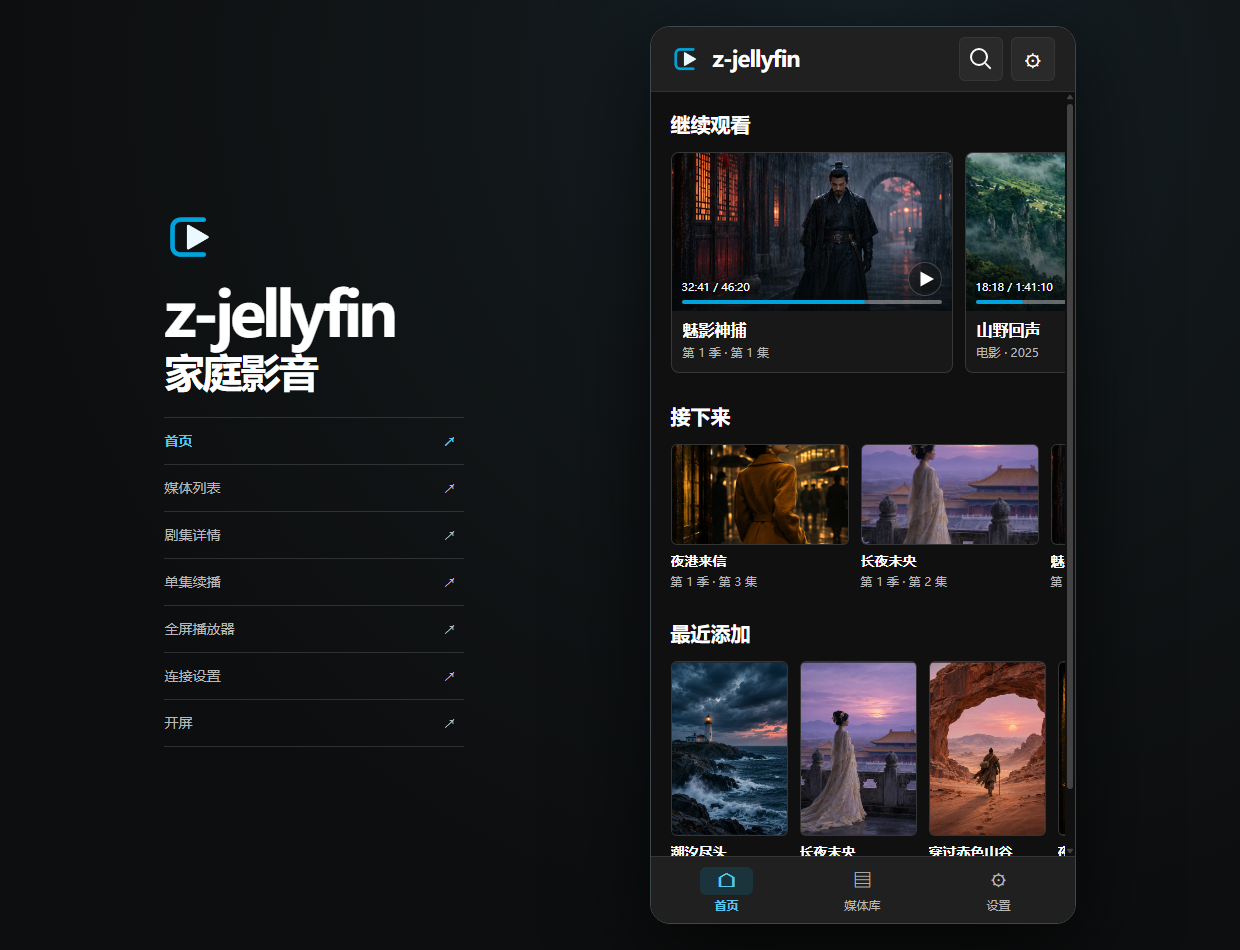
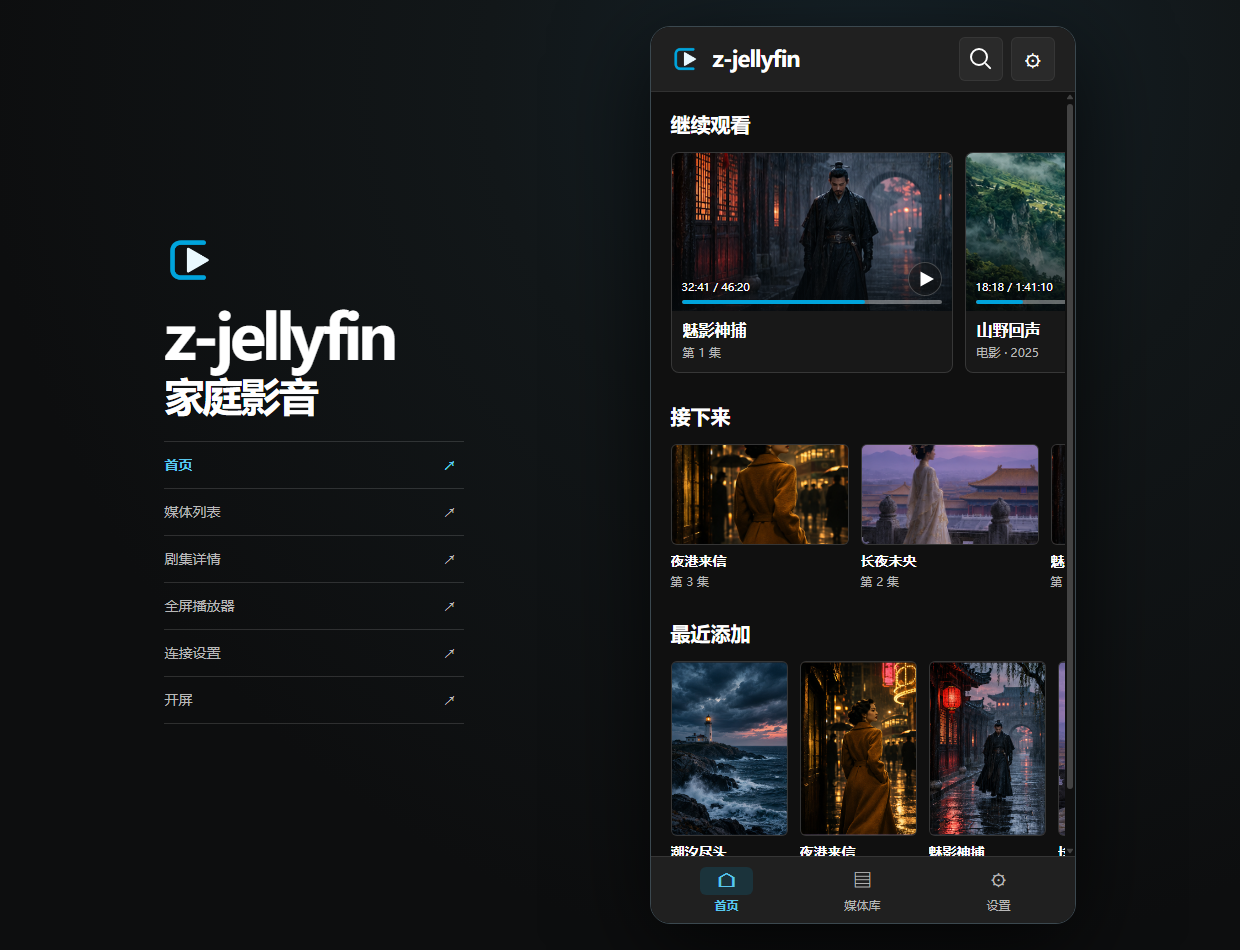
feat: 单集直接播放并简化首页季集号

diff --git a/docs/prototype/index.html b/docs/prototype/index.html
@@ -18,7 +18,6 @@
    <button class="jump" data-jump="home">首页 <span aria-hidden="true">↗</span></button>
    <button class="jump" data-jump="library">媒体列表 <span aria-hidden="true">↗</span></button>
    <button class="jump" data-jump="detail">剧集详情 <span aria-hidden="true">↗</span></button>
-   <button class="jump" data-jump="detail" data-item="ep1">单集续播 <span aria-hidden="true">↗</span></button>
    <button class="jump" data-jump="player">全屏播放器 <span aria-hidden="true">↗</span></button>
    <button class="jump" data-jump="settings">连接设置 <span aria-hidden="true">↗</span></button>
    <button class="jump" data-jump="splash">开屏 <span aria-hidden="true">↗</span></button>
@@ -65,7 +64,7 @@ const mediaLibraries=[
  {id:"series",name:"电视剧",items:["detective","neon","palace"]},
  {id:"favorites",name:"自建片库",items:["desert"]}
 ];
-const latest=["lighthouse","palace","desert","neon","forest","detective"];
+const latest=["lighthouse","n2","ep4","palace","desert","forest"];
 const next=["n3","p2","ep2"];
 const records={ep1:1961,forest:1098,lighthouse:314,n2:2500};
 // Jellyfin Web v10.11.11 playback settings use width and bits per second.
@@ -106,6 +105,7 @@ function adjacentEpisode(id,offset){
  return siblings[siblings.indexOf(id)+offset];
 }
 const isWatched=id=>catalog[id].length>0&&records[id]>=catalog[id].length;
+const resumePosition=id=>isWatched(id)?0:records[id]||0;
 const watchedBadge='<span class="watched"><span aria-hidden="true">✓</span>已看完</span>';
 const logo='<img src="logo.png" alt="" width="38" height="38" class="mark">';
 const ratio=id=>Math.min(100,Math.max(0,(records[id]||0)/(catalog[id].length||1)*100));
@@ -134,14 +134,16 @@ function section(title,markup){
 function card(id,mode="poster"){
  const i=catalog[id], resume=mode==="resume", episode=Boolean(i.parent);
  const landscape=resume||mode==="next-up";
+ const homeCard=landscape||mode==="recent";
  const name=episode?parentName(i):i.name;
- const detail=episode?epLabel(i)+(landscape?"":" · "+i.name):i.type+" · "+i.year;
+ const episodeNumber=homeCard&&i.season===1?"第 "+i.episode+" 集":epLabel(i);
+ const detail=episode?episodeNumber+(homeCard?"":" · "+i.name):i.type+" · "+i.year;
  const watchTime=resume?time(records[id])+" / "+time(i.length):"";
  const coverInfo=resume?'<span class="resumeShade" aria-hidden="true"></span>'+
  '<span class="watchTime">'+watchTime+'</span>'+progress(id)+
  '<svg class="quickPlayIcon" viewBox="0 0 34 34" aria-hidden="true"><path d="M12.5,9.5 L26,17 L12.5,24.5 Z"/></svg>':"";
  const action=resume?'data-play="'+id+'" data-position="'+records[id]+'" aria-label="'+
- esc("继续观看 "+name+"，"+detail+"，已观看 "+watchTime)+'"':'data-detail="'+id+'"';
+ esc("继续观看 "+name+"，"+detail+"，已观看 "+watchTime)+'"':'data-open-item="'+id+'"';
  return '<button class="card" type="button" '+action+'>'+
  '<span class="cover '+(landscape?"landscape":"")+'">'+art(i.art)+coverInfo+'</span>'+
  '<span class="cardCopy"><span class="name">'+esc(name)+'</span><span class="sub">'+esc(detail)+'</span></span></button>';
@@ -154,7 +156,7 @@ function home(){
  const queued=next.filter(id=>!resumed.includes(id)&&!isWatched(id));
  return section("继续观看",resumed.length?rail(resumed,"resume"):'<div class="empty">暂无未看完的影片。</div>')+
  (queued.length?section("接下来",rail(queued,"next-up")):"")+
- section("最近添加",rail(latest));
+ section("最近添加",rail(latest,"recent"));
 }
 function library(){
  const selected=current.filter||"all", libraries=[{id:"all",name:"全部",items:tiles},...mediaLibraries];
@@ -163,15 +165,15 @@ function library(){
  '</div><div class="grid">'+matches.map(id=>card(id)).join("")+'</div>';
 }
 function detail(){
- const id=current.id||"ep1",i=catalog[id],watched=isWatched(id),resume=watched?0:(records[id]||0);
- const meta=i.parent?epLabel(i)+" · "+Math.round(i.length/60)+" 分钟":i.year+" · "+i.type+(i.length?" · "+Math.round(i.length/60)+" 分钟":"");
+ const id=current.id,i=catalog[id],watched=isWatched(id),resume=resumePosition(id);
+ const meta=i.year+" · "+i.type+(i.length?" · "+Math.round(i.length/60)+" 分钟":"");
  let buttons="", episodes="";
  if(i.type==="剧集"){
   const ids=Object.keys(catalog).filter(k=>catalog[k].parent===id), seasons=[...new Set(ids.map(k=>catalog[k].season))];
   const sel=current.season||seasons[0];
   const list=ids.filter(k=>catalog[k].season===sel).map(k=>{
    const episode=catalog[k], done=isWatched(k);
-   return '<button class="episode" data-detail="'+k+'"><span class="cover landscape">'+art(episode.art)+'</span>'+
+   return '<button class="episode" data-open-item="'+k+'"><span class="cover landscape">'+art(episode.art)+'</span>'+
     '<span class="episodeInfo"><span class="name">第 '+episode.episode+' 集 · '+episode.name+'</span>'+
     '<span class="sub">'+Math.round(episode.length/60)+' 分钟'+(records[k]&&!done?' · 已看到 '+time(records[k]):"")+'</span></span>'+
     (done?watchedBadge:"")+'</button>';
@@ -184,8 +186,8 @@ function detail(){
   buttons='<div class="actions">'+openButton(watched?"▶　重播":resume?"▶　继续观看":"▶　播放",'data-play="'+id+'" data-position="'+resume+'"',"primary")+
       (resume?openButton("从头播放",'data-play="'+id+'" data-position="0"'):"")+'</div>';
  }
- return '<div class="heroCover">'+art(i.art)+'<span class="shade" aria-hidden="true"></span></div><div class="sheet detail"><h1>'+esc(parentName(i))+'</h1><p class="meta">'+esc(meta)+(watched?watchedBadge:"")+'</p>'+
- (i.parent?'<h2 class="episodeTitle">'+esc(i.name)+'</h2>':"")+buttons+
+ return '<div class="heroCover">'+art(i.art)+'<span class="shade" aria-hidden="true"></span></div><div class="sheet detail"><h1>'+esc(i.name)+'</h1><p class="meta">'+esc(meta)+(watched?watchedBadge:"")+'</p>'+
+ buttons+
  (resume?'<div class="watchprogress">'+progress(id)+'</div><small>已观看 '+time(resume)+' / '+time(i.length)+'</small>':"")+
  '<p class="summary">'+esc(i.desc)+'</p>'+episodes+'</div>';
 }
@@ -253,7 +255,7 @@ function render(){
  if(page==="library")main.querySelector(".filters").scrollLeft=current.filterScroll||0;
  main.scrollTop=0;
  document.querySelectorAll("[data-jump]").forEach(button=>{
-  const selected=button.dataset.jump===page&&(page!=="detail"||(button.dataset.item||"detective")===current.id);
+  const selected=button.dataset.jump===page&&(page!=="detail"||current.id==="detective");
   button.setAttribute("aria-current",selected?"page":"false");
  });
 }
@@ -395,12 +397,16 @@ document.addEventListener("click",e=>{
  const d=button.dataset;
  if("back" in d)back();
  else if(d.jump==="player"){navigate("home",{},true);showPlayer("ep1",records.ep1||0);}
- else if(d.jump)navigate(d.jump,d.jump==="detail"?{id:d.item||"detective"}:{},true);
+ else if(d.jump)navigate(d.jump,d.jump==="detail"?{id:"detective"}:{},true);
  else if(d.tab)navigate(d.tab,{},true);
  else if(d.go)navigate(d.go);
  else if(d.filter){current.filter=d.filter;current.filterScroll=button.closest(".filters").scrollLeft;render();}
  else if(d.season&&button.getAttribute("aria-selected")!=="true")switchSeason(button);
- else if(d.detail)navigate("detail",{id:d.detail});
+ else if(d.openItem){
+  const id=d.openItem;
+  if(catalog[id].parent)showPlayer(id,resumePosition(id));
+  else navigate("detail",{id});
+ }
  else if(d.play)showPlayer(d.play,Number(d.position));
  else if(d.episode)showPlayer(d.episode,isWatched(d.episode)?0:records[d.episode]||0,true);
  else if("togglePlayer" in d){if(!playing&&playTime===catalog[playerKey].length){playTime=0;updateTime();}setPlaying(!playing);}

diff --git a/docs/prototype/ui.css b/docs/prototype/ui.css
@@ -228,7 +228,6 @@ main.pad[data-screen="library"] { padding-top: 0; }
 .detail { position: relative; margin-top: -64px; }
 .detail h1 { margin: 0 0 7px; font-size: clamp(30px, 8vw, 38px); line-height: 1.16; letter-spacing: -.05em; }
 .meta { color: var(--sub); font-size: 13px; line-height: 1.5; margin: 0 0 14px; }
-.episodeTitle { font-size: 18px; margin-bottom: 13px; }
 .summary { color: #dedede; font-size: 15px; line-height: 1.75; margin: 18px 0 21px; }
 .detail .actions { flex-wrap: wrap; }
 .primary, .secondary {

diff --git a/android/app/src/main/java/cn/jiuwusan/jellyfin/player/MainActivity.java b/android/app/src/main/java/cn/jiuwusan/jellyfin/player/MainActivity.java
@@ -708,7 +708,8 @@ public final class MainActivity extends Activity {
     }
 
     private void openItem(JellyfinApi.Item item, Runnable back) {
-        if (item.folder && !item.series) libraryPage(new LibraryLocation(item, false), back);
+        if ("Episode".equals(item.type)) playbackPage(item, null, back);
+        else if (item.folder && !item.series) libraryPage(new LibraryLocation(item, false), back);
         else detailsPage(item, back);
     }
 
@@ -748,27 +749,20 @@ public final class MainActivity extends Activity {
         LinearLayout.LayoutParams body = new LinearLayout.LayoutParams(-1, -2);
         body.topMargin = -dp(44);
         pageView.addView(view, body);
-        boolean episode = !item.seriesName.isEmpty();
         int titleSize = Math.max(30, Math.min(38, Math.round(screenDp * 0.08f)));
-        TextView title = libraryUi.label(episode ? item.seriesName : item.title, titleSize, LibraryUi.TEXT, true);
+        TextView title = libraryUi.label(item.title, titleSize, LibraryUi.TEXT, true);
         title.setIncludeFontPadding(false);
         view.addView(title, new LinearLayout.LayoutParams(-1, -2));
         List<String> metadata = new ArrayList<>();
-        if (episode && item.season > 0) metadata.add("第 " + item.season + " 季");
-        if (episode && item.index > 0) metadata.add("第 " + item.index + " 集");
-        if (!episode && item.year > 0) metadata.add(Integer.toString(item.year));
-        if (!episode && item.series) metadata.add("剧集");
+        if (item.year > 0) metadata.add(Integer.toString(item.year));
+        if (item.series) metadata.add("剧集");
         if ("Movie".equals(item.type)) metadata.add("电影");
         if (item.durationMs > 0) metadata.add(item.durationMs / 60_000 + " 分钟");
         if (!metadata.isEmpty()) text(view, TextUtils.join(" · ", metadata)).setTextSize(13);
         if (item.played) watched(view);
-        if (episode) {
-            String episodeTitle = LibraryUi.episodeTitle(item);
-            view.addView(libraryUi.label(episodeTitle.isEmpty() ? item.title : episodeTitle, 18, LibraryUi.TEXT, true));
-        }
         if (!item.series) {
             Runnable returnToDetails = () -> detailsPage(item, back);
-            Runnable fromStart = () -> playbackPage(item, 0, returnToDetails);
+            Runnable fromStart = () -> playbackPage(item, 0L, returnToDetails);
             if (item.resumeMs > 0) {
                 actionRow(view, "继续观看", () -> playbackPage(item, item.resumeMs, returnToDetails),
                         "从头播放", fromStart, true);
@@ -1008,7 +1002,7 @@ public final class MainActivity extends Activity {
                     list.removeView(loading);
                     if (episodes.isEmpty()) text(list, "暂无剧集。");
                     for (JellyfinApi.Item episode : episodes) {
-                        episodeRow(list, episode, () -> detailsPage(episode,
+                        episodeRow(list, episode, () -> openItem(episode,
                                 () -> detailsPage(series, back, season == null ? null : season.id)));
                     }
                 });
@@ -1057,7 +1051,7 @@ public final class MainActivity extends Activity {
         parent.addView(badge, new LinearLayout.LayoutParams(-2, -2));
     }
 
-    private void playbackPage(JellyfinApi.Item item, long resumeMs, Runnable back) {
+    private void playbackPage(JellyfinApi.Item item, Long startPosition, Runnable back) {
         Runnable close = () -> {
             stopPlayback();
             back.run();
@@ -1075,8 +1069,18 @@ public final class MainActivity extends Activity {
         current.loadNeighbors();
         worker.execute(() -> {
             try {
+                long resumeMs = startPosition == null ? item.resumeMs : startPosition;
+                if (startPosition == null) {
+                    try {
+                        // Search and library cards may still hold the progress from before playback.
+                        resumeMs = current.connection.details(item).resumeMs;
+                    } catch (Exception error) {
+                        Log.w(JellyfinApi.TAG, "Using saved card position because progress refresh failed");
+                    }
+                }
+                long position = resumeMs;
                 JellyfinApi.Stream resolved = current.connection.stream(item, policy);
-                onPage(expected, () -> startPlayback(resolved, current, resumeMs, true, false, null));
+                onPage(expected, () -> startPlayback(resolved, current, position, true, false, null));
             } catch (Exception error) {
                 onPage(expected, () -> current.screen.showMessage(message(error, "无法获取视频")));
             }

diff --git a/android/app/src/main/java/cn/jiuwusan/jellyfin/player/LibraryUi.java b/android/app/src/main/java/cn/jiuwusan/jellyfin/player/LibraryUi.java
@@ -115,7 +115,7 @@ final class LibraryUi {
             JellyfinApi.Item item = items.get(i);
             LinearLayout.LayoutParams params = new LinearLayout.LayoutParams(dp(width), -2);
             if (i > 0) params.setMarginStart(dp(12));
-            row.addView(card(item, wide, progress, dp(width), () -> action.open(item)), params);
+            row.addView(card(item, wide, progress, true, dp(width), () -> action.open(item)), params);
         }
         return scroll;
     }
@@ -141,11 +141,12 @@ final class LibraryUi {
             JellyfinApi.Item item = items.get(i);
             LinearLayout.LayoutParams params = new LinearLayout.LayoutParams(width, -2);
             if (i % columns > 0) params.setMarginStart(gap);
-            row.addView(card(item, false, false, width, () -> action.open(item)), params);
+            row.addView(card(item, false, false, false, width, () -> action.open(item)), params);
         }
     }
 
-    private View card(JellyfinApi.Item item, boolean wide, boolean progress, int width, Runnable action) {
+    private View card(JellyfinApi.Item item, boolean wide, boolean progress, boolean homeCard,
+                      int width, Runnable action) {
         int radius = progress ? RADIUS_PANEL : RADIUS_CONTROL;
         LinearLayout tile = column();
         FrameLayout cover = picture(item, wide, progress ? 0 : radius, wide);
@@ -177,9 +178,10 @@ final class LibraryUi {
         title.setEllipsize(TextUtils.TruncateAt.END);
         if (!progress) title.setPadding(0, dp(7), 0, 0);
         copy.addView(title);
-        String episode = (item.season > 0 ? "第 " + item.season + " 季" : "")
-                + (item.index > 0 ? (item.season > 0 ? " · " : "") + "第 " + item.index + " 集" : "");
-        String episodeTitle = wide ? "" : episodeTitle(item);
+        boolean showSeason = item.season > 0 && (!homeCard || item.season != 1);
+        String episode = (showSeason ? "第 " + item.season + " 季" : "")
+                + (item.index > 0 ? (showSeason ? " · " : "") + "第 " + item.index + " 集" : "");
+        String episodeTitle = homeCard ? "" : episodeTitle(item);
         String itemType = item.series ? "剧集" : "Movie".equals(item.type) ? "电影" : "";
         String year = item.year > 0 ? Integer.toString(item.year) : "";
         String subtitle = item.seriesName.isEmpty()

diff --git a/docs/requirements/媒体库功能需求.md b/docs/requirements/媒体库功能需求.md
@@ -30,8 +30,8 @@
 | 区块 | 展示内容 | 点击行为 |
 | --- | --- | --- |
 | 继续观看 | 已开始且有可续播进度的电影和单集，按服务器返回顺序显示。每张卡片显示海报、片名或剧名与集号、进度条和已看位置，有时长时同时显示总时长。 | 点卡片任意位置，从服务端保存的位置直接续播，退出后回到首页。 |
-| 接下来 | Jellyfin 为当前账号返回的下一集，使用剧集海报并显示剧名和季集号。已出现在「继续观看」的同一集在本栏跳过。 | 点卡片进入对应单集详情，从详情页查看集名或播放。 |
-| 最近添加 | 最近入库的电影和剧集，沿用服务器返回顺序。按剧集聚合时，每部剧只占一张卡片。近期新增内容可以与其他区块同时出现。 | 打开对应电影、剧集或单集详情。 |
+| 接下来 | Jellyfin 为当前账号返回的下一集，使用剧集海报并显示剧名和季集号。已出现在「继续观看」的同一集在本栏跳过。 | 单集直接播放，电影和剧集进入对应详情。 |
+| 最近添加 | 最近入库的电影、剧集和单集，沿用服务器返回顺序。按剧集聚合时，每部剧只占一张卡片。近期新增内容可以与其他区块同时出现。 | 单集直接播放，电影和剧集进入对应详情。 |
 
 - 竖版卡片中的电影和剧集使用各自的主海报。首页「继续观看」和「接下来」的单集优先使用所属剧集的横版背景，取不到时依次尝试单集封面和剧集主海报。其他位置的单集优先使用自己的封面，缺失时使用所属剧集海报。缺图或取图失败时保留固定比例的占位和可点击标题。
 - 续播进度以服务端的播放位置和总时长计算，比例限制在 0% 至 100%。缺少总时长时仅显示已看位置。退出播放并回到首页后，刷新相关观看状态。
@@ -43,7 +43,7 @@
 ### 媒体列表
 
 - 从底部「媒体库」进入。「全部」默认选中，直接展示当前账号可访问的电影和剧集。顶部其余横向标签取自 Jellyfin 中实际创建、当前账号可访问的视频媒体库。选择库标签后在同一位置直接展示该库内容。影片和剧集采用响应式海报网格，点击进入详情。
-- 列表使用服务端分页，默认按标题排序。上滑接近底部时自动加载下一页，并把新条目追加到当前列表。返回列表时恢复此前的库、目录和浏览位置。搜索继续保留，结果可进入同一详情页。
+- 列表使用服务端分页，默认按标题排序。上滑接近底部时自动加载下一页，并把新条目追加到当前列表。返回列表时恢复此前的库、目录和浏览位置。媒体库和搜索中的单集直接播放，电影和剧集进入对应详情。
 - 正常、加载中、空结果和加载失败均有对应状态。后续页失败时保留已加载内容，并允许重试。
 
 ### 媒体详情
@@ -51,8 +51,7 @@
 | 对象 | 展示与操作 |
 | --- | --- |
 | 电影或普通视频 | 海报、片名、年份、时长和简介。没有保存进度时显示「播放」，有进度时显示「继续观看」和「从头播放」。 |
-| 剧集 | 剧集海报、剧名、年份和简介。可选择季并浏览该季集数，集卡显示季集号、集名及已有观看状态。只有一季时直接展示集列表。 |
-| 单集 | 海报、剧名、季集号、集名、时长和简介。按电影相同规则提供播放和续播。 |
+| 剧集 | 剧集海报、剧名、年份和简介。可选择季并浏览该季集数，集卡显示季集号、集名及已有观看状态。只有一季时直接展示集列表。点击集卡直接播放，退出后回到所选季。 |
 
 资料缺失时省略对应字段，保留可用的播放操作。播放结束或退出后继续向 Jellyfin 上报进度。从详情返回首页时，续播和接下来区块反映更新后的状态。
 
@@ -60,6 +59,7 @@
 
 - 继续使用当前集成播放器。超出 **1920×1080** 的源视频由服务端缩放并输出 **H.264/AAC HLS**，保持宽高比例，音视频合计编码目标不超过 **4 Mbps**。符合尺寸的片源沿用现有协商流程。
 - Android 点「播放」「继续观看」或「从头播放」默认进入横屏全屏播放器。视频按原始比例适配，点击画面可显示控制条和返回入口。退出播放恢复原来的屏幕方向设置和系统栏。
+- 单集直接打开播放器，有未看完的进度就续播，首次观看或已看完则从片头开始。
 - Android 全屏播放器按[交互设计稿](../prototype/index.html?screen=player)布局。顶部显示片名、集名和轨道菜单，底部显示可拖动进度、播放时间、快退 5 秒、快进 15 秒和画质上限。展开控制区时字幕避开底部控件。
 - Android 全屏控制区提供「字幕」和「音轨」。字幕可选自动、关闭或 Jellyfin 提供的文本字幕，外挂字幕走现有 HTTP 代理和鉴权。转码时切换音轨重新向 Jellyfin 取流，保留同一片源、当前位置、暂停状态及画质上限。
 - Android 剧集全屏控制区提供「上一集」和「下一集」，按服务端顺序跨季切换可用单集。切换前记录当前进度，目标集有未完成进度时续播。电影隐藏切集入口，退出播放返回进入播放器前的页面。
@@ -72,9 +72,9 @@
 | --- | --- |
 | 覆盖安装和启动 | OPPO 安装验证版，首次设置后重开可自动进入首页。同包名覆盖已有验证版时，代理和授权配置保留。 |
 | 首页和海报 | 继续观看、接下来、最近添加按顺序展示。电影和剧集使用海报。缺图可继续操作。单区块出错后可独立重试。「继续观看」整卡可直接续播，退出后回首页。 |
-| 浏览与详情 | 进入媒体库即看到电影和剧集海报。切换到实际库名标签后只显示该库内容。点击海报可看详情，剧集能进入季和单集。返回时保留选中的标签和列表位置。 |
+| 浏览与详情 | 进入媒体库即看到电影和剧集海报。切换到实际库名标签后只显示该库内容。点电影或剧集进入详情，点单集直接播放。返回时保留选中的标签和列表位置。 |
 | 续播 | 点首页中有进度的电影或单集卡片，播放器直接从保存的位置起播。退出后，首页显示更新后的进度。 |
-| 接下来与最近添加 | 同一集优先出现在「继续观看」，「接下来」不重复出现该集。「接下来」封面只显示图片，点卡片进入单集详情。最近添加的条目可进入对应详情。 |
+| 接下来与最近添加 | 同一集优先出现在「继续观看」，「接下来」不重复出现该集。两栏的单集都能直接播放并返回首页，电影和剧集进入对应详情。 |
 | 4K 播放回归 | OPPO 使用验证版播放《魅影神捕》第 1 集，核对实际下发 **1920×804 左右**的 H.264、4 Mbps 编码目标和硬解首帧。普通 1080p 片源继续沿用现有流程。 |
 | 全屏轨道与切集 | 双音轨 4K 片源在转码时切换音轨并从原位置继续。选中 Jellyfin 外挂字幕后显示，点关闭后清除。还需核对首尾集、来回切集和退出路径。 |
 

diff --git a/docs/prototype/UI设计说明.md b/docs/prototype/UI设计说明.md
@@ -8,10 +8,10 @@
 
 | 页面 | 布局与操作 |
 | --- | --- |
-| 首页 | 首屏优先展示大幅横向「继续观看」卡片。已看／总时长显示在封面左下角、进度条上方。片名和季集号（电影显示类型和年份）留在封面下方。点整张卡片从保存的位置续播，退出播放回到首页。下面是横向浏览的「接下来」和采用 2:3 海报的「最近添加」，点击卡片进入对应详情。 |
-| 媒体库与搜索 | 顶部横向标签使用当前账号可访问的 Jellyfin 视频媒体库名称。「全部」默认选中，直接展示电影与剧集；选择具体库时直接展示该库的媒体。结果采用 2:3 海报网格，标题最多两行，点击进入详情。常规手机三列，窄屏两列。搜索复用相同卡片，返回时保留搜索词和浏览位置。 |
-| 电影与单集详情 | 封面向页面背景渐变，片名、元数据和简介依次排列。有进度时主按钮为「继续观看」，旁边保留「从头播放」，并展示已看时间；已看完时使用「重播」。 |
-| 剧集详情 | 「选集」下横向显示季标签，多季时可滑动，单季直接列出集数。每集显示封面、集号、标题和时长；已看完的单集显示带对勾的「已看完」，续播中的单集显示已看时间。 |
+| 首页 | 首屏优先展示大幅横向「继续观看」卡片。已看／总时长显示在封面左下角、进度条上方。片名和季集号（电影显示类型和年份）留在封面下方。点整张卡片从保存的位置续播，退出播放回到首页。下面是横向浏览的「接下来」和采用 2:3 海报的「最近添加」。单集直接播放，电影和剧集进入对应详情页。 |
+| 媒体库与搜索 | 顶部横向标签使用当前账号可访问的 Jellyfin 视频媒体库名称。「全部」默认选中，直接展示电影与剧集；选择具体库时直接展示该库的媒体。结果采用 2:3 海报网格，标题最多两行。电影和剧集进入详情页，单集直接播放。常规手机三列，窄屏两列。搜索复用相同卡片，返回时保留搜索词和浏览位置。 |
+| 电影详情 | 封面向页面背景渐变，片名、元数据和简介依次排列。有进度时主按钮为「继续观看」，旁边保留「从头播放」，并展示已看时间。已看完时使用「重播」。 |
+| 剧集详情 | 「选集」下横向显示季标签，多季时可滑动，单季直接列出集数。每集显示封面、集号、标题和时长。点某一集直接播放，退出播放器回到选集列表。已看完的单集显示带对勾的「已看完」，续播中的单集显示已看时间。 |
 | 全屏播放器 | 播放时画面铺满横屏播放器，并按原始比例适配。左上角是返回和集名，右上角是字幕、音轨；底部显示进度、时间、画质上限和播控。点画面可显示或隐藏控制区。 |
 | 连接设置 | 用标题和分隔线组织「家庭 HTTP 代理」「Jellyfin 授权」「播放画质」，输入框使用下横线，密码遮挡。画质沿用原型中的 Jellyfin 档位，默认 1080p／4 Mbps，码率为音视频合计。 |
 | 保存确认 | 点击「保存并连接」后弹窗输入确认密码。错误状态显示在输入框下方，留在弹窗重试；取消保留原有保存值和页面草稿。确认成功后在保存按钮下方说明结果。 |
@@ -23,6 +23,8 @@
 - 单集缩略图和「已看完」标记使用 4 的圆角，海报、按钮和季标签使用 6，续播卡片、确认弹窗和轨道面板使用 8。播放图标和进度拖点保持圆形。
 - 海报采用 2:3，首页续播与接下来封面、剧集单集缩略图采用 16:9；渐变遮罩保证叠在封面上的入口文字和进度清晰。横向卡片栏露出部分下一张封面以提示滑动。
 - 「继续观看」在封面右下角用直径 34 的半透明深色圆底、白色矢量三角和淡白描边提示整张卡片可续播。「接下来」卡片只显示封面、剧名和季集号。
+- 首页「继续观看」「接下来」和「最近添加」的单集卡片在剧名下显示季集号。第 1 季只显示集号，如「第 3 集」。第 2 季起显示季数和集号，如「第 2 季 · 第 1 集」。集名在播放器顶部和剧集选集列表显示。
+- 单集直接打开播放器。有未看完的进度就续播，首次观看或已看完则从片头开始。退出后回到播放前的页面。
 - 底部导航固定显示「首页」「媒体库」「设置」。当前入口通过底色和文字突出，按键焦点有独立描边。
 
 ## 全屏播放
